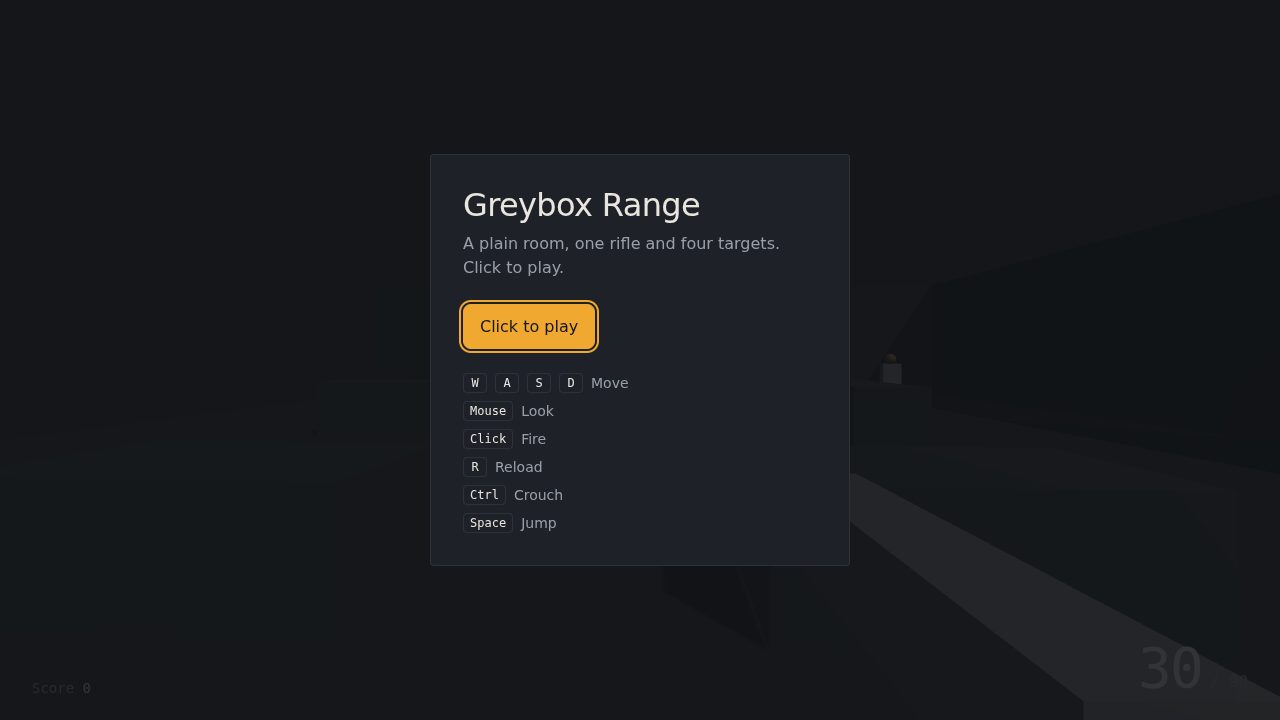
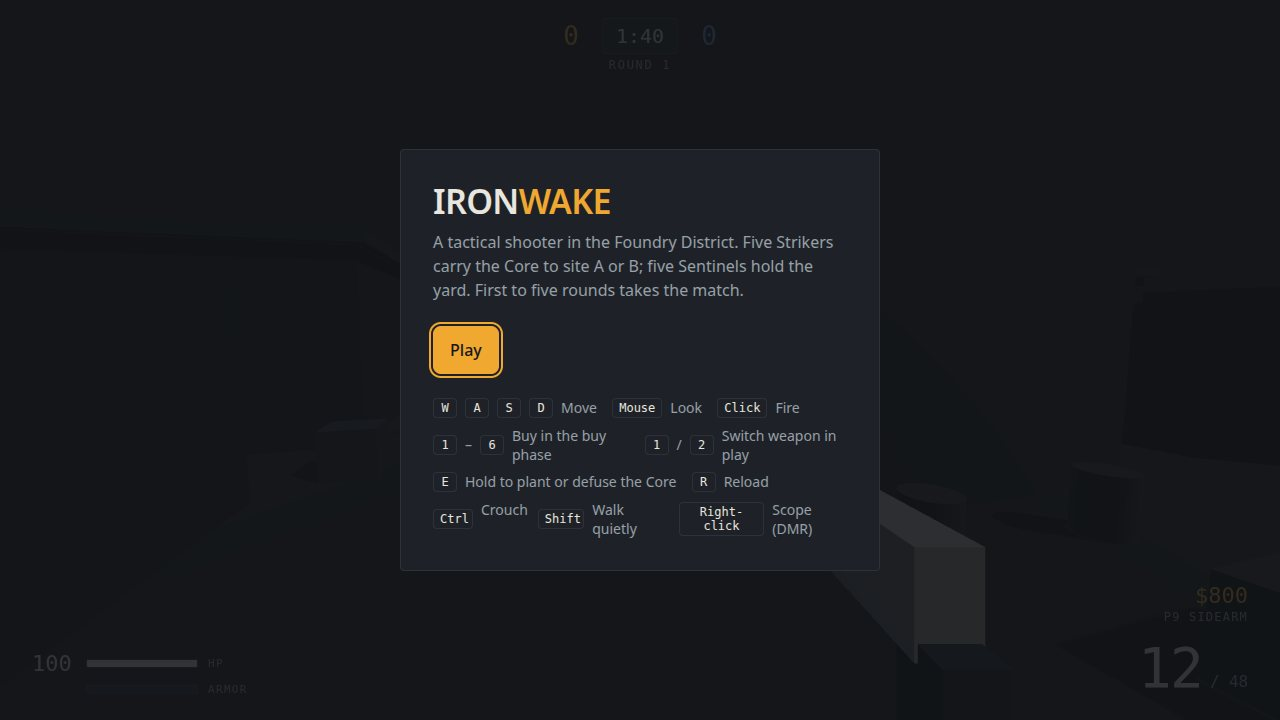
Fix bot navigation (props off lanes, stuck recovery), any-striker plants, sentinel rotation on intel, softer bot aim; final screenshots

diff --git a/game/src/bots.js b/game/src/bots.js
@@ -152,6 +152,8 @@ export function createBots(scene, world, mover, fx) {
     bot.goal = point.clone();
     bot.state = 'advance';
     bot.thenState = then;
+    bot.anchor = bot.body.position.clone();
+    bot.progressAt = 0;
   }
 
   // ---- round setup -------------------------------------------------------------
@@ -192,11 +194,12 @@ export function createBots(scene, world, mover, fx) {
     const spotsA = holdSpots('A');
     const spotsB = holdSpots('B');
     guards.forEach((bot, i) => {
-      if (i < 2) { bot.holdSpot = spotsA[i]; sendTo(bot, spotsA[i], 'hold'); }
-      else if (i < 4) { bot.holdSpot = spotsB[i - 2]; sendTo(bot, spotsB[i - 2], 'hold'); }
-      else { bot.holdSpot = new THREE.Vector3(0, 0, -6); sendTo(bot, bot.holdSpot, 'hold'); }
+      if (i < 2) { bot.holdSpot = spotsA[i]; bot.holdSite = 'A'; sendTo(bot, spotsA[i], 'hold'); }
+      else if (i < 4) { bot.holdSpot = spotsB[i - 2]; bot.holdSite = 'B'; sendTo(bot, spotsB[i - 2], 'hold'); }
+      else { bot.holdSpot = new THREE.Vector3(0, 0, -6); bot.holdSite = null; sendTo(bot, bot.holdSpot, 'hold'); }
       bot.planDelay = 0;
     });
+    intel = { site: null, t: -99 };
   }
 
   function setPlanted(siteKey, position) {
@@ -255,6 +258,13 @@ export function createBots(scene, world, mover, fx) {
 
   // ---- perception & combat -------------------------------------------------------
   const tmpDir = new THREE.Vector3();
+  // Squad intel: the last site a Sentinel saw a Striker near. Holders on the other
+  // site rotate off it while the intel is fresh, so a push meets a defence.
+  let intel = { site: null, t: -99 };
+
+  function nearerSiteKey(pos) {
+    return world.sites.A.center.distanceTo(pos) < world.sites.B.center.distanceTo(pos) ? 'A' : 'B';
+  }
 
   function perceive(bot, time) {
     const eye = bot.eyePos();
@@ -275,18 +285,19 @@ export function createBots(scene, world, mover, fx) {
     if (bestTarget) {
       if (bot.target !== bestTarget) { bot.target = bestTarget; bot.reactAt = time + (0.34 + Math.random() * 0.26) / bot.skill; }
       bot.seen.set(bestTarget.id, time);
+      if (bot.team === 'guard' && bestTarget.team === 'strike') intel = { site: nearerSiteKey(bestTarget.body.position), t: time };
     } else if (bot.target && time - (bot.seen.get(bot.target.id) ?? -9) > 1.6) {
       bot.target = null;
     }
   }
 
   function hitChance(bot, foe, dist) {
-    let p = 0.46 - dist * 0.0062;
+    let p = 0.43 - dist * 0.0058;
     p *= bot.skill;
     const speed = foe.body ? Math.hypot(foe.body.velocity.x, foe.body.velocity.z) : foe.groundSpeed();
     if (speed > 2.5) p *= 0.68;
     if (foe.body?.crouching || foe.crouching) p *= 0.85;
-    return Math.max(0.07, Math.min(0.5, p));
+    return Math.max(0.07, Math.min(0.46, p));
   }
 
   function botShoot(bot, time) {
@@ -374,14 +385,31 @@ export function createBots(scene, world, mover, fx) {
       const d = Math.hypot(moveTarget.x - bot.body.position.x, moveTarget.z - bot.body.position.z);
       if (d < 0.8) {
         bot.path.shift();
+        bot.anchor = bot.body.position.clone();
+        bot.progressAt = time;
         if (!bot.path.length) arrive(bot);
+      } else {
+        // Stuck recovery: if the body has not made 0.6 m of progress toward the
+        // route in 2.2 s (a prop on the line, a teammate in the doorway), skip
+        // this waypoint and walk at the next one instead of pushing forever.
+        if (!bot.anchor) { bot.anchor = bot.body.position.clone(); bot.progressAt = time; }
+        if (bot.body.position.distanceTo(bot.anchor) > 0.6) {
+          bot.anchor = bot.body.position.clone();
+          bot.progressAt = time;
+        } else if (time - bot.progressAt > 2.2) {
+          bot.path.shift();
+          bot.anchor = bot.body.position.clone();
+          bot.progressAt = time;
+          if (!bot.path.length) arrive(bot);
+        }
       }
     } else if (bot.state === 'push') {
-      // In the site: the carrier plants (only when the player is not the striker who
-      // must do it); others take angles.
+      // In the site: the first striker through the door plants (only when the player
+      // is not the striker who must do it); the others take angles.
       const site = world.sites[attackSite];
       const distSite = Math.hypot(site.center.x - bot.body.position.x, site.center.z - bot.body.position.z);
-      if (fx.playerTeam() !== 'strike' && bot.index === 0 && distSite < site.radius && !planted) {
+      const teammatePlanting = bots.some((b) => b !== bot && b.team === 'strike' && b.alive && b.channel?.type === 'plant');
+      if (fx.playerTeam() !== 'strike' && distSite < site.radius && !planted && !teammatePlanting) {
         bot.channel = { type: 'plant', t: 0, need: PLANT_TIME };
         crouch = true;
       } else {
@@ -396,6 +424,18 @@ export function createBots(scene, world, mover, fx) {
       } else {
         moveTarget = planted.position; // the site yards are open; walk straight in
       }
+    }
+
+    // Rotation: a Sentinel holding the quiet site while fresh intel puts the push on
+    // the other one leaves his angle and crosses over (half of them, so the quiet
+    // site is never fully naked).
+    if (!moveTarget && bot.state === 'hold' && bot.team === 'guard' && !planted
+      && intel.site && bot.holdSite && intel.site !== bot.holdSite
+      && time - intel.t < 25 && bot.index % 2 === 0) {
+      const spots = holdSpots(intel.site);
+      bot.holdSpot = spots[bot.index % spots.length];
+      bot.holdSite = intel.site;
+      sendTo(bot, bot.holdSpot, 'hold');
     }
 
     if (moveTarget) {

diff --git a/game/src/world.js b/game/src/world.js
@@ -75,15 +75,17 @@ export function createWorld(scene) {
   for (const [x, z] of [[-5.5, -5], [5.5, -5], [-5.5, 3], [5.5, 3]]) box(1.1, 4.2, 1.1, x, 2.1, z, 'hairline');
 
   // Cover crates and barrels, placed at the angles fights actually happen on.
+  // (Cover is kept clear of the waypoint lanes the bots walk — see world.graph —
+  // a crate on a lane line is a wall a bot will push against forever.)
   const crates = [
-    [-23, 6, 1.15], [-23, -9, 1.15], [-13.5, -14, 1.15], [-19, -19.5, 1.15], [-16, -12.8, 2.3],
-    [23, 6, 1.15], [23, -9, 1.15], [13.5, -14, 1.15], [19, -19.5, 1.15], [16, -12.8, 2.3],
-    [-3.4, -1, 1.15], [3.4, -1, 1.15], [0, -7.5, 2.3], [-8.5, 5.5, 1.15], [8.5, 5.5, 1.15],
+    [-24.5, 6, 1.15], [-24.5, -9, 1.15], [-10.5, -15.5, 1.15], [-19, -19.5, 1.15], [-16, -12.8, 2.3],
+    [24.5, 6, 1.15], [24.5, -9, 1.15], [11.5, -15.5, 1.15], [19, -19.5, 1.15], [16, -12.8, 2.3],
+    [-3.4, 1.8, 1.15], [3.4, 1.8, 1.15], [0, -7.5, 2.3], [-10.6, 5.5, 1.15], [10.6, 5.5, 1.15],
     [-16, 17.5, 1.15], [16, 17.5, 1.15], [0, 15.5, 2.3], [-7, -13, 1.15], [7, -13, 1.15],
     [-23, 17, 2.3], [23, 17, 2.3], [-8.5, -19, 1.15], [8.5, -19, 1.15],
   ];
   for (const [x, z, w] of crates) box(w, 1.1, 1.15, x, 0.55, z, 'hairline');
-  for (const [x, z] of [[-21, -16], [-11.5, -19], [21, -16], [11.5, -19], [-1.8, 12.5], [1.8, 12.5], [-23.5, -2], [23.5, -2]]) barrel(x, z);
+  for (const [x, z] of [[-21.5, -17.5], [-9.2, -20.8], [21.5, -17.5], [9.2, -20.8], [-1.8, 12.5], [1.8, 12.5], [-24.6, -2], [24.6, -2]]) barrel(x, z);
 
   // Sites: a marked plate, corner posts and a glowing beacon pillar each.
   function site(cx, cz, glow, tintName) {
